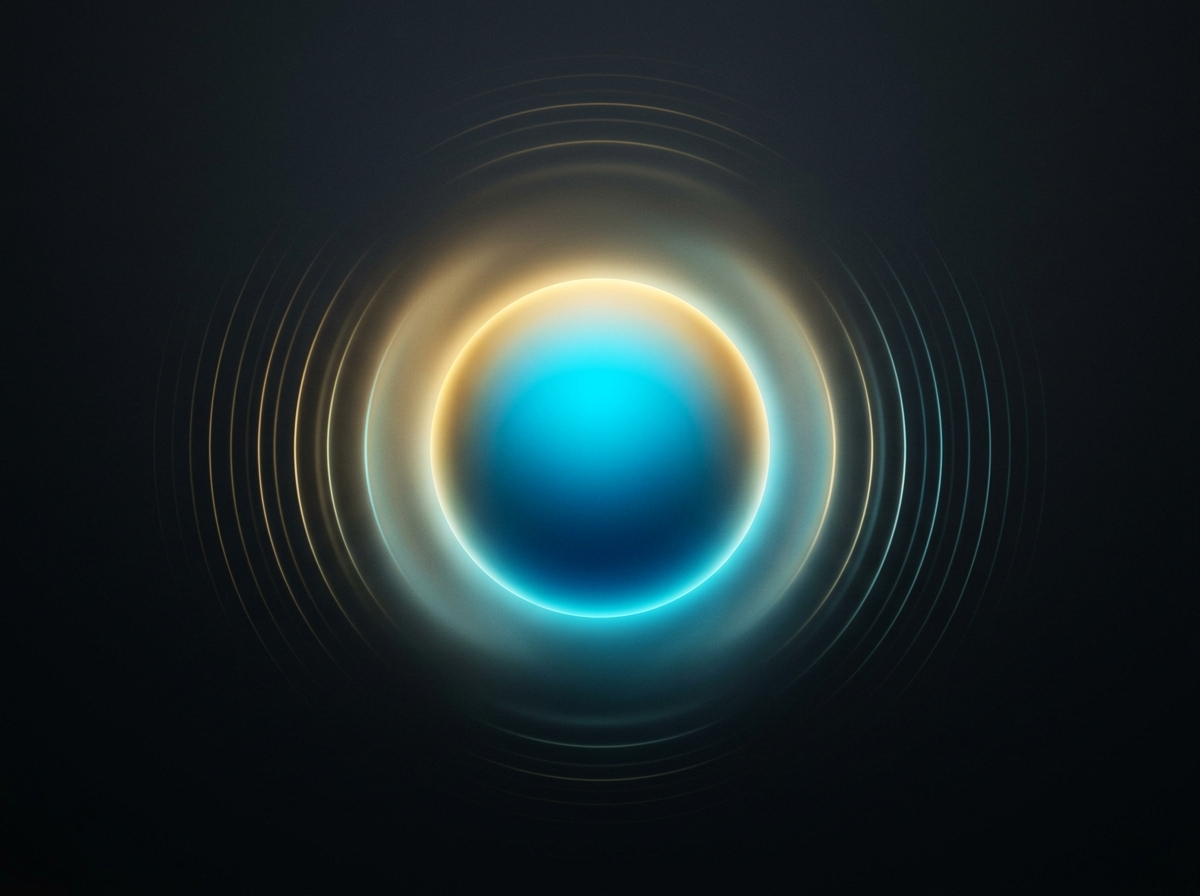
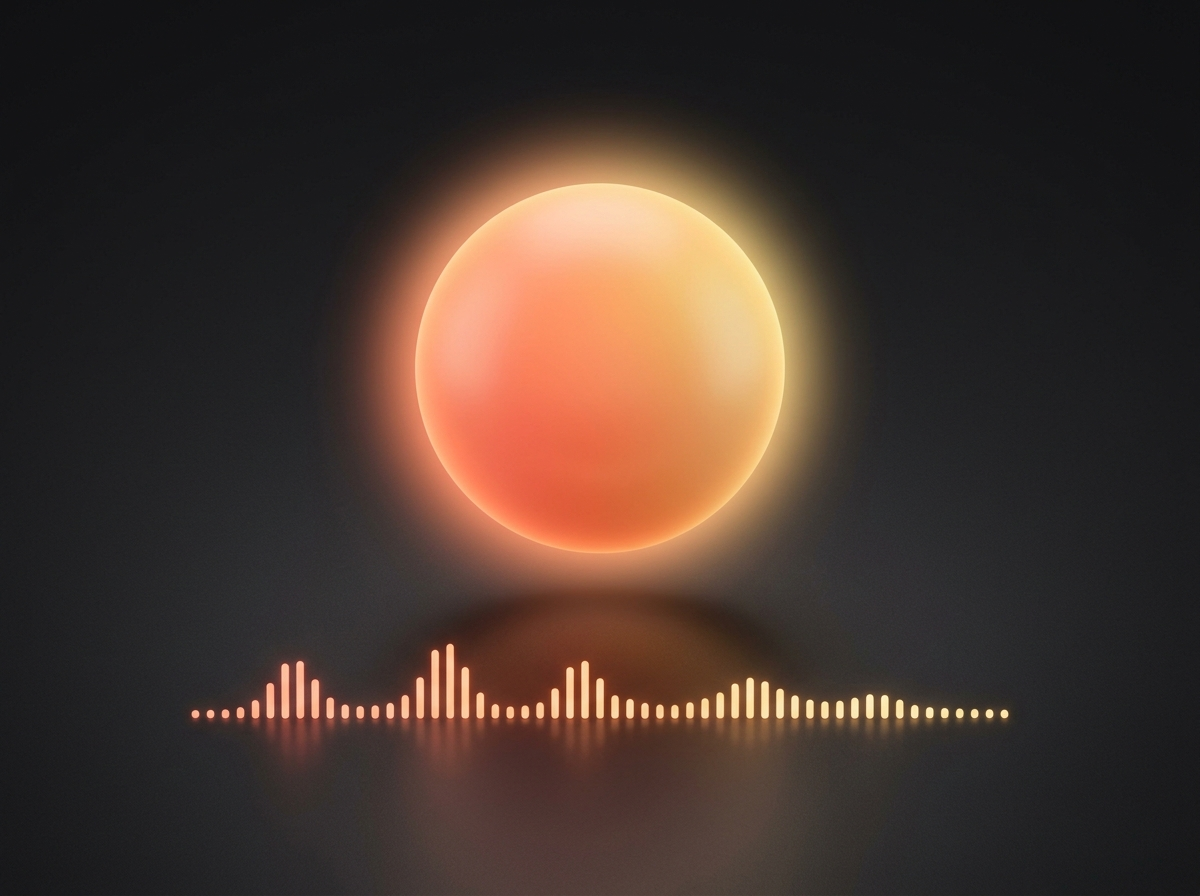
design: add clean studio images for AI Agents and Workflow Automation bento cards

diff --git a/index.html b/index.html
@@ -267,26 +267,13 @@
           <!-- CARD 1: 01 AI Agents & Intelligent Assistants -->
           <div class="bento-card bento-card--agents reveal-on-scroll">
             <div class="bento-visual-stage stage-agents">
-              <div class="agent-ambient-glow"></div>
-              <div class="agent-orb-wrapper">
-                <div class="agent-orb">
-                  <div class="agent-orb-inner"></div>
+              <div class="bento-visual-img-wrap">
+                <img src="/images/service-agent-orb.jpg" alt="AI Agents and Intelligent Assistants" class="bento-visual-img" loading="lazy" />
+                <div class="bento-img-overlay"></div>
+                <div class="bento-img-badge">
+                  <span class="bento-img-badge-dot"></span>
+                  <span>Autonomous Agent • LIVE</span>
                 </div>
-              </div>
-              <div class="agent-status-pill">
-                <span class="agent-status-dot"></span>
-                <span>Listening...</span>
-              </div>
-              <div class="voice-soundwave" aria-label="Audio Waveform">
-                <span class="wave-bar bar-1"></span>
-                <span class="wave-bar bar-2"></span>
-                <span class="wave-bar bar-3"></span>
-                <span class="wave-bar bar-4"></span>
-                <span class="wave-bar bar-5"></span>
-                <span class="wave-bar bar-6"></span>
-                <span class="wave-bar bar-7"></span>
-                <span class="wave-bar bar-8"></span>
-                <span class="wave-bar bar-9"></span>
               </div>
             </div>
             <div class="bento-card-content">
@@ -303,100 +290,13 @@
           <!-- CARD 2: 02 Workflow Automation & Integrations (Wide Workflow Visual) -->
           <div class="bento-card bento-card--workflow reveal-on-scroll">
             <div class="bento-visual-stage stage-workflow">
-              <div class="workflow-canvas-grid"></div>
-              
-              <!-- Workflow Interactive Architecture Diagram -->
-              <div class="workflow-diagram">
-                
-                <!-- Step 1: Trigger Node (Top) -->
-                <div class="wf-node wf-trigger">
-                  <div class="wf-node-icon wf-icon-zap">
-                    <svg viewBox="0 0 24 24" width="14" height="14" fill="none" stroke="currentColor" stroke-width="2.5"><polygon points="13 2 3 14 12 14 11 22 21 10 12 10 13 2"/></svg>
-                  </div>
-                  <div class="wf-node-text">
-                    <div class="wf-node-title-row">
-                      <span class="wf-node-title">New Lead Received</span>
-                      <span class="wf-live-beacon"></span>
-                    </div>
-                    <span class="wf-node-sub">Acme Corp submitted a demo request from the website</span>
-                  </div>
+              <div class="bento-visual-img-wrap">
+                <img src="/images/service-workflow-automation.jpg" alt="Workflow Automation and Integrations Diagram" class="bento-visual-img" loading="lazy" />
+                <div class="bento-img-overlay"></div>
+                <div class="bento-img-badge">
+                  <span class="bento-img-badge-dot"></span>
+                  <span>Automated Pipeline • Active</span>
                 </div>
-
-                <!-- SVG Connecting Lines -->
-                <svg class="wf-connector-svg" viewBox="0 0 460 70" fill="none" preserveAspectRatio="none">
-                  <!-- Stem Down -->
-                  <path d="M230 0 V25" stroke="rgba(0, 212, 255, 0.45)" stroke-width="2" stroke-dasharray="4 3"/>
-                  <!-- Left Branch -->
-                  <path d="M230 25 H100 V70" stroke="rgba(0, 212, 255, 0.45)" stroke-width="2" stroke-dasharray="4 3"/>
-                  <!-- Right Branch -->
-                  <path d="M230 25 H360 V70" stroke="rgba(0, 212, 255, 0.45)" stroke-width="2" stroke-dasharray="4 3"/>
-                </svg>
-
-                <!-- Step 2: Branching Rows -->
-                <div class="wf-branches-row">
-                  
-                  <!-- Left Branch: AI Qualification & Email -->
-                  <div class="wf-branch-col">
-                    <div class="wf-node wf-action">
-                      <div class="wf-node-icon wf-icon-brain">
-                        <svg viewBox="0 0 24 24" width="14" height="14" fill="none" stroke="currentColor" stroke-width="2"><path d="M12 2a3 3 0 0 0-3 3v7a3 3 0 0 0 6 0V5a3 3 0 0 0-3-3Z"/><path d="M19 10v2a7 7 0 0 1-14 0v-2"/><line x1="12" x2="12" y1="19" y2="22"/></svg>
-                      </div>
-                      <div class="wf-node-text">
-                        <span class="wf-node-title">AI Qualification</span>
-                        <span class="wf-node-sub">Analyzing lead intent &amp; urgency score</span>
-                      </div>
-                    </div>
-
-                    <div class="wf-sub-connector">
-                      <svg width="2" height="16"><line x1="1" y1="0" x2="1" y2="16" stroke="rgba(0, 212, 255, 0.4)" stroke-width="2" stroke-dasharray="3 2"/></svg>
-                    </div>
-
-                    <div class="wf-node wf-sub-node">
-                      <div class="wf-node-icon wf-icon-mail">
-                        <svg viewBox="0 0 24 24" width="13" height="13" fill="none" stroke="currentColor" stroke-width="2"><rect x="2" y="4" width="20" height="16" rx="2"/><path d="m22 7-8.97 5.7a1.94 1.94 0 0 1-2.06 0L2 7"/></svg>
-                      </div>
-                      <div class="wf-node-text">
-                        <span class="wf-node-title">Follow-Up Dispatched</span>
-                        <span class="wf-node-sub">Information routed without manual handoff</span>
-                      </div>
-                    </div>
-                  </div>
-
-                  <!-- Right Branch: CRM Record Created & Integration Chips -->
-                  <div class="wf-branch-col">
-                    <div class="wf-node wf-action">
-                      <div class="wf-node-icon wf-icon-crm">
-                        <svg viewBox="0 0 24 24" width="14" height="14" fill="none" stroke="currentColor" stroke-width="2"><ellipse cx="12" cy="5" rx="9" ry="3"></ellipse><path d="M3 5V19A9 3 0 0 0 21 19V5"></path><path d="M3 12A9 3 0 0 0 21 12"></path></svg>
-                      </div>
-                      <div class="wf-node-text">
-                        <span class="wf-node-title">CRM Sync &amp; Record</span>
-                        <span class="wf-node-sub">Tools synced &amp; team notified instantly</span>
-                      </div>
-                    </div>
-
-                    <div class="wf-sub-connector">
-                      <svg width="2" height="16"><line x1="1" y1="0" x2="1" y2="16" stroke="rgba(0, 212, 255, 0.4)" stroke-width="2" stroke-dasharray="3 2"/></svg>
-                    </div>
-
-                    <!-- Integration Chips -->
-                    <div class="wf-integration-chips">
-                      <div class="wf-chip" title="Trello Sync">
-                        <svg viewBox="0 0 24 24" width="11" height="11" fill="currentColor"><rect x="3" y="3" width="18" height="18" rx="2" fill="none" stroke="currentColor" stroke-width="2"/><rect x="6" y="6" width="4" height="11" fill="currentColor"/><rect x="14" y="6" width="4" height="7" fill="currentColor"/></svg>
-                        <span>Trello</span>
-                      </div>
-                      <div class="wf-chip" title="Jira Sync">
-                        <svg viewBox="0 0 24 24" width="11" height="11" fill="none" stroke="currentColor" stroke-width="2"><polygon points="12 2 2 7 12 12 22 7 12 2"></polygon><polyline points="2 17 12 22 22 17"></polyline><polyline points="2 12 12 17 22 12"></polyline></svg>
-                        <span>Jira</span>
-                      </div>
-                      <div class="wf-chip" title="HubSpot CRM">
-                        <svg viewBox="0 0 24 24" width="11" height="11" fill="none" stroke="currentColor" stroke-width="2"><circle cx="12" cy="12" r="3"/><path d="M12 3v6M12 15v6M3 12h6M15 12h6"/></svg>
-                        <span>HubSpot</span>
-                      </div>
-                    </div>
-                  </div>
-
-                </div>
-
               </div>
             </div>
             <div class="bento-card-content">
